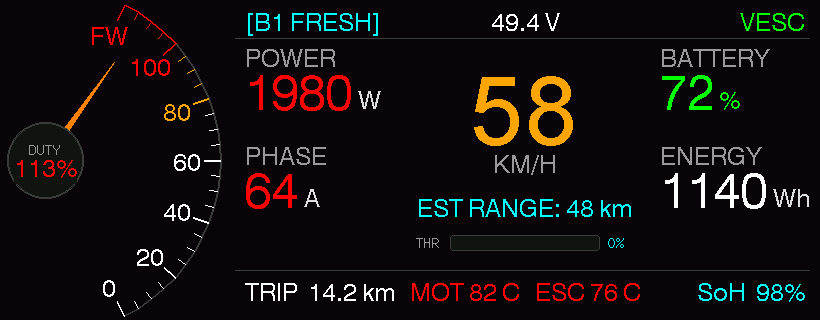
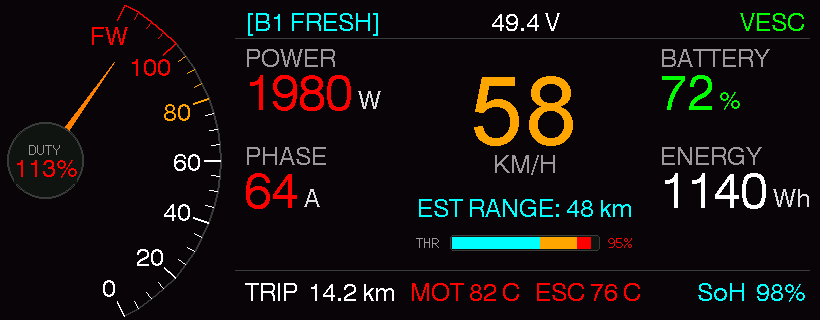
fix(throttle): default throttle ADC channel to ADC1 and add one-time NVS migration

Changed region(s): [[0.5488, 0.7188, 0.7622, 0.7812]]

diff --git a/src/vesc_uart.cpp b/src/vesc_uart.cpp
@@ -356,18 +356,19 @@ bool VescHandler::parseVescPacket(uint8_t *buffer, size_t len, DashTelemetry &te
 
     // 1. Decoded ADC Packet (COMM_GET_DECODED_ADC = 0x20 / 32)
     if (cmd_id == 0x20) {
-        if (len >= 11) {
+        if (payload_len >= 5) {
             int32_t raw_level1 = (int32_t)(((uint32_t)payload[1] << 24) | ((uint32_t)payload[2] << 16) | ((uint32_t)payload[3] << 8) | (uint32_t)payload[4]);
-            int32_t raw_volt1  = (len >= 15) ? (int32_t)(((uint32_t)payload[5] << 24) | ((uint32_t)payload[6] << 16) | ((uint32_t)payload[7] << 8) | (uint32_t)payload[8]) : 0;
-            int32_t raw_level2 = (len >= 19) ? (int32_t)(((uint32_t)payload[9] << 24) | ((uint32_t)payload[10] << 16) | ((uint32_t)payload[11] << 8) | (uint32_t)payload[12]) : 0;
-            int32_t raw_volt2  = (len >= 22) ? (int32_t)(((uint32_t)payload[13] << 24) | ((uint32_t)payload[14] << 16) | ((uint32_t)payload[15] << 8) | (uint32_t)payload[16]) : 0;
+            int32_t raw_volt1  = (payload_len >= 9)  ? (int32_t)(((uint32_t)payload[5] << 24) | ((uint32_t)payload[6] << 16) | ((uint32_t)payload[7] << 8) | (uint32_t)payload[8]) : 0;
+            int32_t raw_level2 = (payload_len >= 13) ? (int32_t)(((uint32_t)payload[9] << 24) | ((uint32_t)payload[10] << 16) | ((uint32_t)payload[11] << 8) | (uint32_t)payload[12]) : 0;
+            int32_t raw_volt2  = (payload_len >= 17) ? (int32_t)(((uint32_t)payload[13] << 24) | ((uint32_t)payload[14] << 16) | ((uint32_t)payload[15] << 8) | (uint32_t)payload[16]) : 0;
 
             _last_adc1_v = raw_volt1 / 1000000.0f;
             _last_adc1_pct = (raw_level1 / 1000000.0f) * 100.0f;
             _last_adc2_v = raw_volt2 / 1000000.0f;
             _last_adc2_pct = (raw_level2 / 1000000.0f) * 100.0f;
 
-            int32_t chosen_level = (Settings.get().throttle_adc_channel == 1 && len >= 19) ? raw_level2 : raw_level1;
+            // Choose ADC1 (default 0) or ADC2 (1) based on settings
+            int32_t chosen_level = (Settings.get().throttle_adc_channel == 1 && payload_len >= 13) ? raw_level2 : raw_level1;
             float pct = (chosen_level / 1000000.0f) * 100.0f;
             if (pct < 0.0f) pct = 0.0f;
             if (pct > 100.0f) pct = 100.0f;

diff --git a/src/settings_manager.cpp b/src/settings_manager.cpp
@@ -19,7 +19,7 @@ void SettingsManager::loadDefaults() {
     _settings.gear_ratio             = 1.0f;
     _settings.active_battery_profile = 0;
     _settings.voltage_trim_v         = -0.3f;
-    _settings.throttle_adc_channel   = 1; // Default to ADC2 as requested
+    _settings.throttle_adc_channel   = 0; // Default to ADC1 (standard VESC throttle)
 }
 
 void SettingsManager::begin() {
@@ -27,8 +27,10 @@ void SettingsManager::begin() {
 
     if (!_prefs.isKey("cfg_init")) {
         // First boot: save initial defaults
+        loadDefaults();
         save();
         _prefs.putBool("cfg_init", true);
+        _prefs.putBool("adc_v2_fixed", true);
         Serial.println("[SETTINGS] Initialized default NVS configuration.");
     } else {
         _settings.dash_style             = _prefs.getUChar("style", STYLE_ANALOG_DIAL);
@@ -43,7 +45,16 @@ void SettingsManager::begin() {
         _settings.gear_ratio             = _prefs.getFloat("gear", 1.0f);
         _settings.active_battery_profile = _prefs.getUChar("bat_prof", 0);
         _settings.voltage_trim_v         = _prefs.getFloat("v_trim", -0.3f);
-        _settings.throttle_adc_channel   = _prefs.getUChar("adc_ch", 1);
+        _settings.throttle_adc_channel   = _prefs.getUChar("adc_ch", 0);
+
+        // One-time automatic migration: fix boards that had adc_ch set to 1 by previous buggy default
+        if (!_prefs.getBool("adc_v2_fixed", false)) {
+            _settings.throttle_adc_channel = 0; // Force default to ADC1
+            _prefs.putUChar("adc_ch", 0);
+            _prefs.putBool("adc_v2_fixed", true);
+            Serial.println("[SETTINGS] Migrated throttle ADC channel to ADC1 (standard).");
+        }
+
         Serial.println("[SETTINGS] Loaded configuration from NVS flash.");
     }
 }

diff --git a/tools/simulator/sim_main.cpp b/tools/simulator/sim_main.cpp
@@ -277,6 +277,7 @@ int main(int argc, char **argv) {
     t.screen = SCREEN_RIDE_DASH;
     t.speed_kmh = 0.0f;
     t.duty_cycle_pct = 0.0f;
+    t.throttle_pct = 0.0f;
     t.power_watts = 0.0f;
     t.phase_amps = 0.0f;
     Renderer.markScreenDirty();
@@ -287,6 +288,7 @@ int main(int argc, char **argv) {
     // ----------------------------------------------------
     t.speed_kmh = 32.4f;
     t.duty_cycle_pct = 48.0f;
+    t.throttle_pct = 42.0f;
     t.power_watts = 680.0f;
     t.phase_amps = 26.5f;
     t.voltage = 52.1f;
@@ -298,6 +300,7 @@ int main(int argc, char **argv) {
     // ----------------------------------------------------
     t.speed_kmh = 58.2f;
     t.duty_cycle_pct = 112.5f; // Over 100% (Field Weakening!)
+    t.throttle_pct = 95.0f;
     t.power_watts = 1980.0f;   // Over 1500W (Red)
     t.phase_amps = 64.0f;      // Over 55A (Red)
     t.voltage = 49.4f;
@@ -312,6 +315,7 @@ int main(int argc, char **argv) {
     Settings.get().dash_style = STYLE_HORIZONTAL_BAR;
     t.speed_kmh = 34.0f;
     t.duty_cycle_pct = 52.0f;
+    t.throttle_pct = 45.0f;
     t.power_watts = 720.0f;
     t.phase_amps = 28.0f;
     t.temp_motor = 45.0f;
@@ -324,6 +328,7 @@ int main(int argc, char **argv) {
     // ----------------------------------------------------
     t.speed_kmh = 59.1f;
     t.duty_cycle_pct = 114.0f;
+    t.throttle_pct = 98.0f;
     t.power_watts = 2150.0f;
     t.phase_amps = 68.0f;
     renderAndSave("05_horizontal_field_weakening", t);

diff --git a/include/settings_manager.h b/include/settings_manager.h
@@ -17,7 +17,7 @@ struct DashSettings {
     float   gear_ratio;          // 1.0 to 4.0 (default 1.0)
     uint8_t active_battery_profile; // 0 = Profile 1, 1 = Profile 2
     float   voltage_trim_v;         // -2.0 to +2.0 V (default -0.3V)
-    uint8_t throttle_adc_channel;   // 0 = ADC1, 1 = ADC2 (default 1 = ADC2)
+    uint8_t throttle_adc_channel;   // 0 = ADC1, 1 = ADC2 (default 0 = ADC1)
 };
 
 class SettingsManager {
